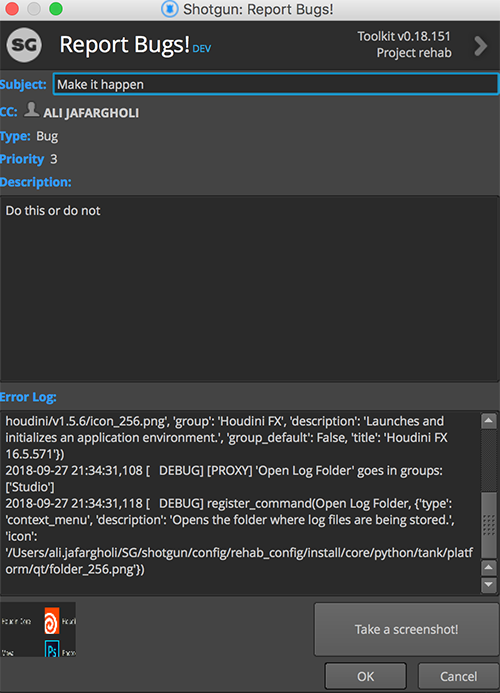
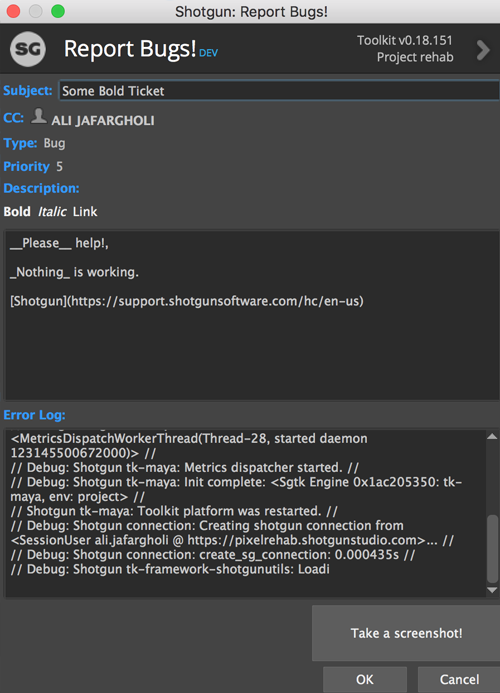
refactor: update the READMe

Changed region(s): [[0.0, 0.0, 1.0, 1.0], [0.6, 0.8788, 0.63, 0.9394]]

diff --git a/README.md b/README.md
@@ -15,6 +15,9 @@ modified it a bit to accommodate my need in our studio.
 * Include the current _engine_ and _context_
 * Specify Ticket Type _ex: bug or feature_
 * Specify the priority
+* Whether or not to include the _system environment variables_
+* Specify just which environment variable to include in the ticket
+* Ability to make the selected text in the ticket description __Bolds__, _Italic_, or Link  
 
 ### Icon
 The Bug Icon is by youtube.com/AlfredoCreates & Flaticondesign.com from the 
